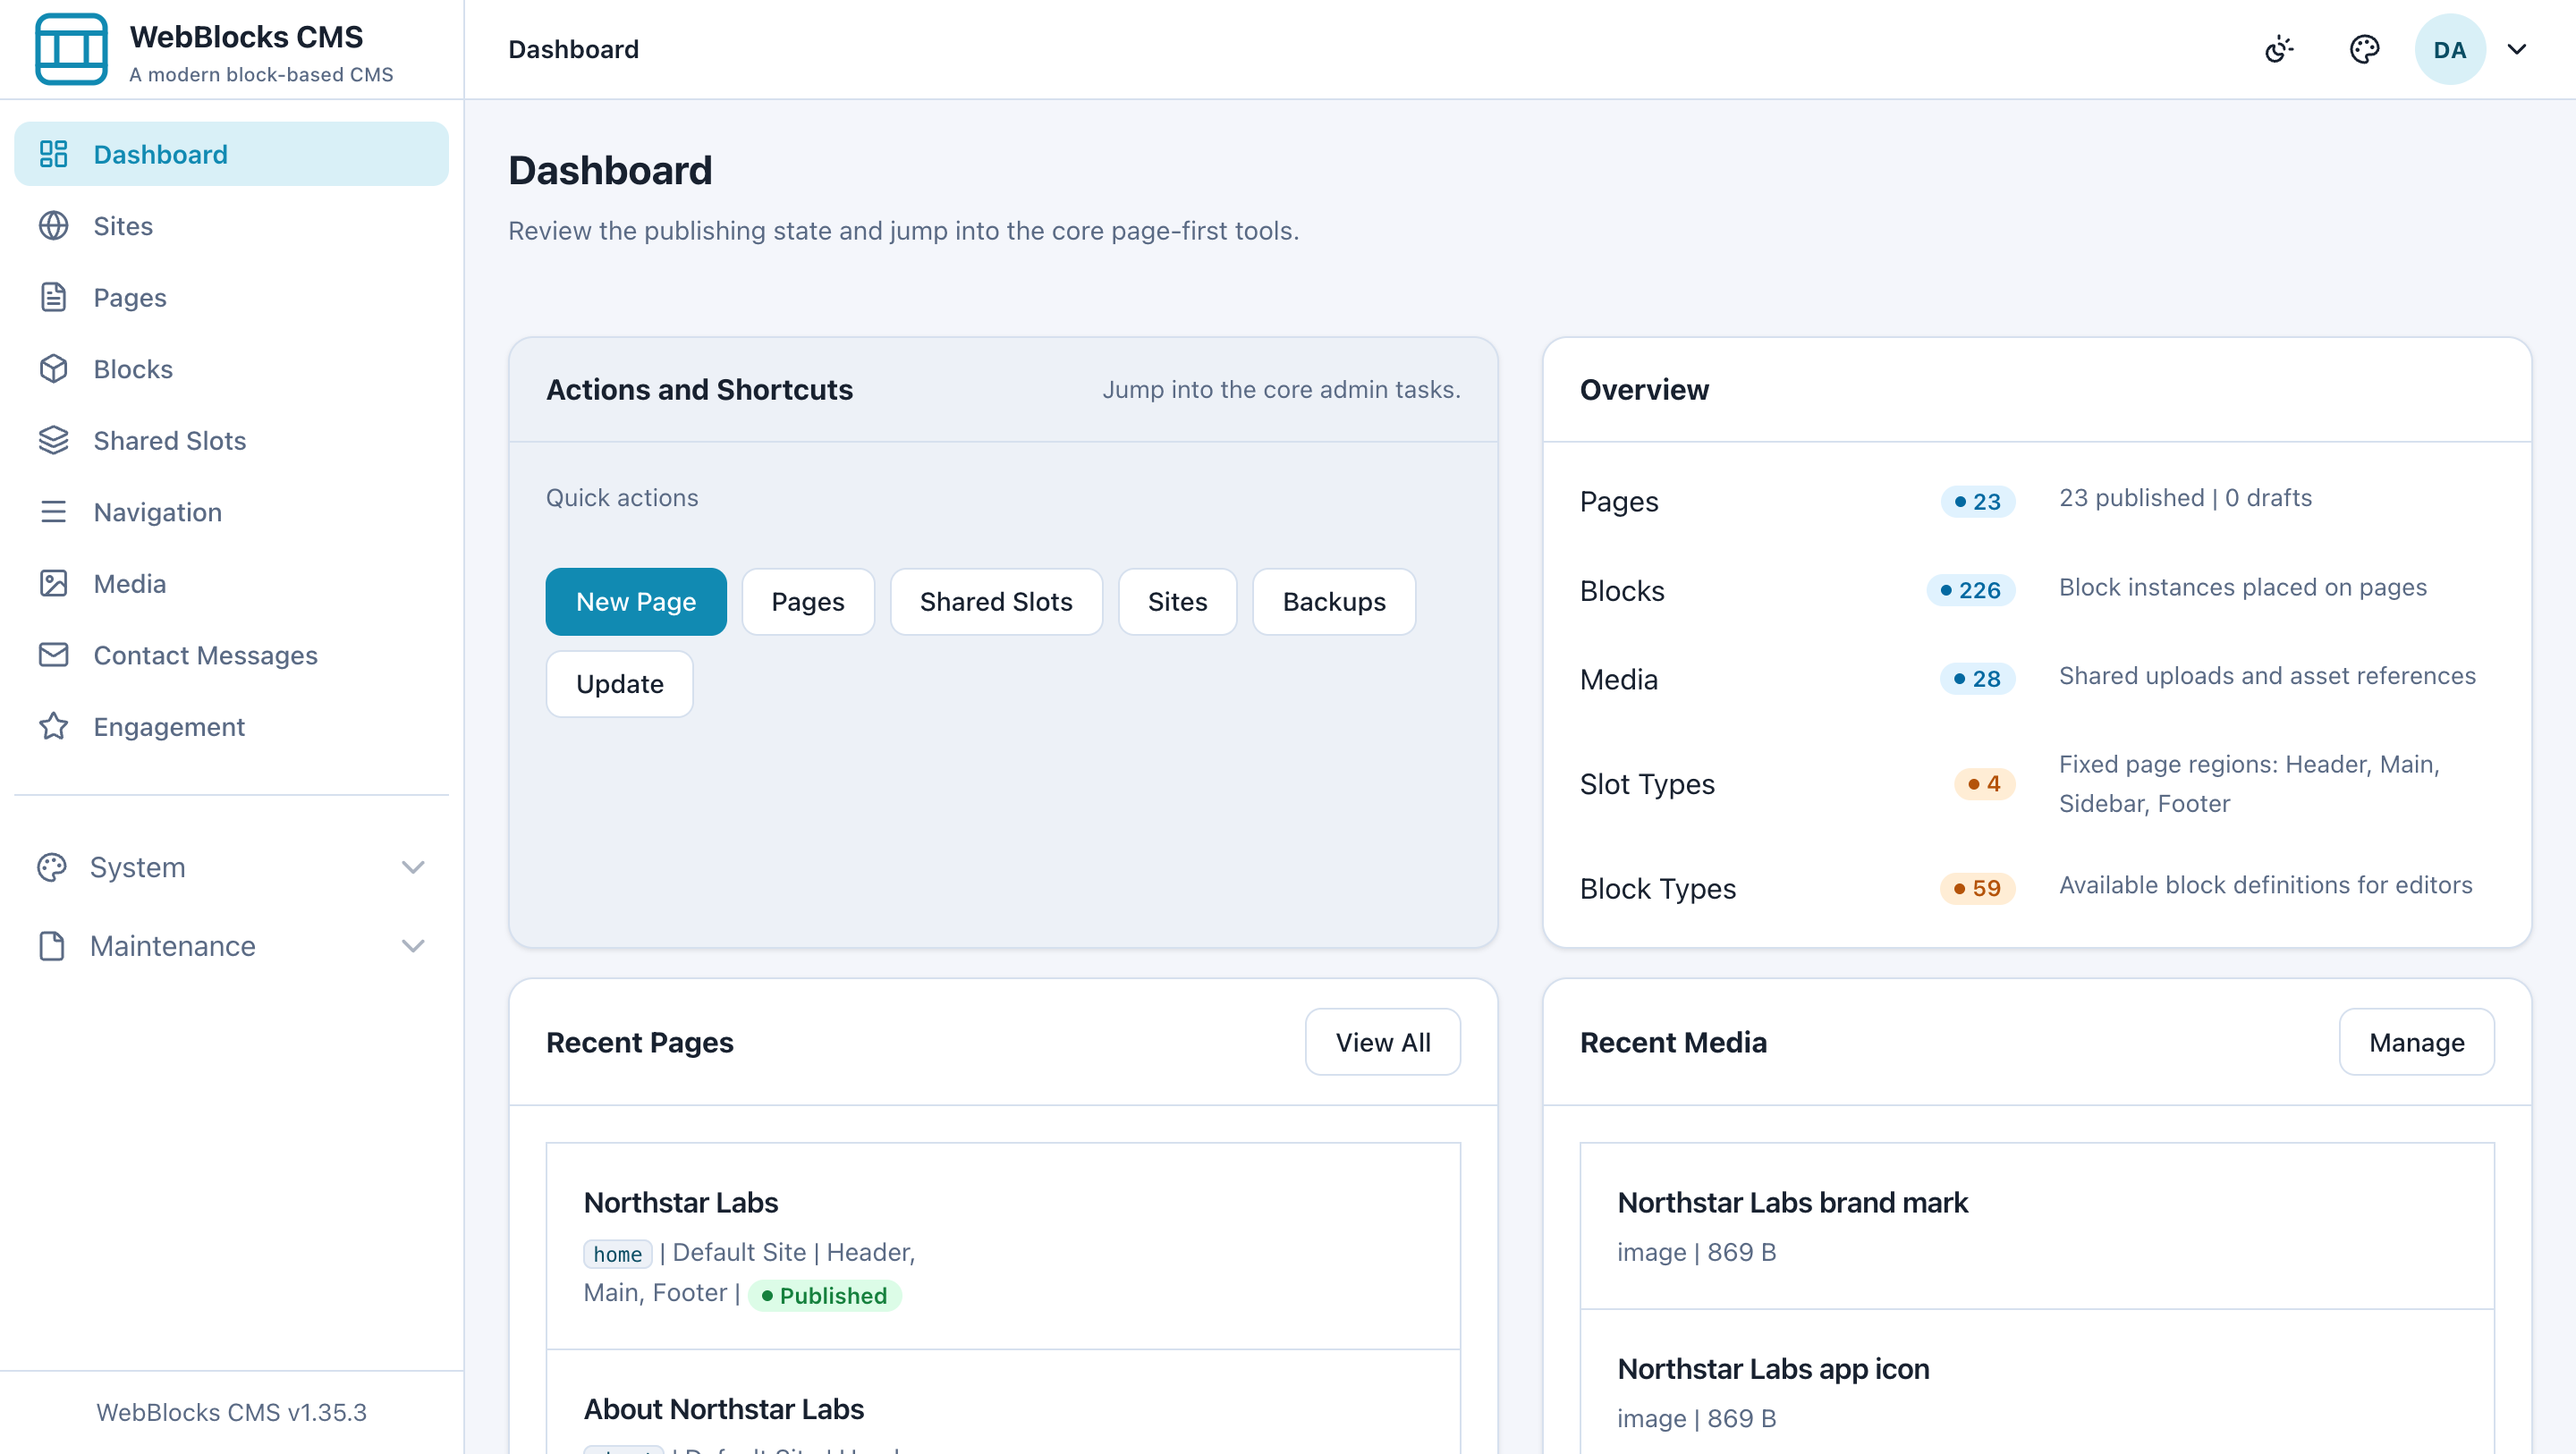
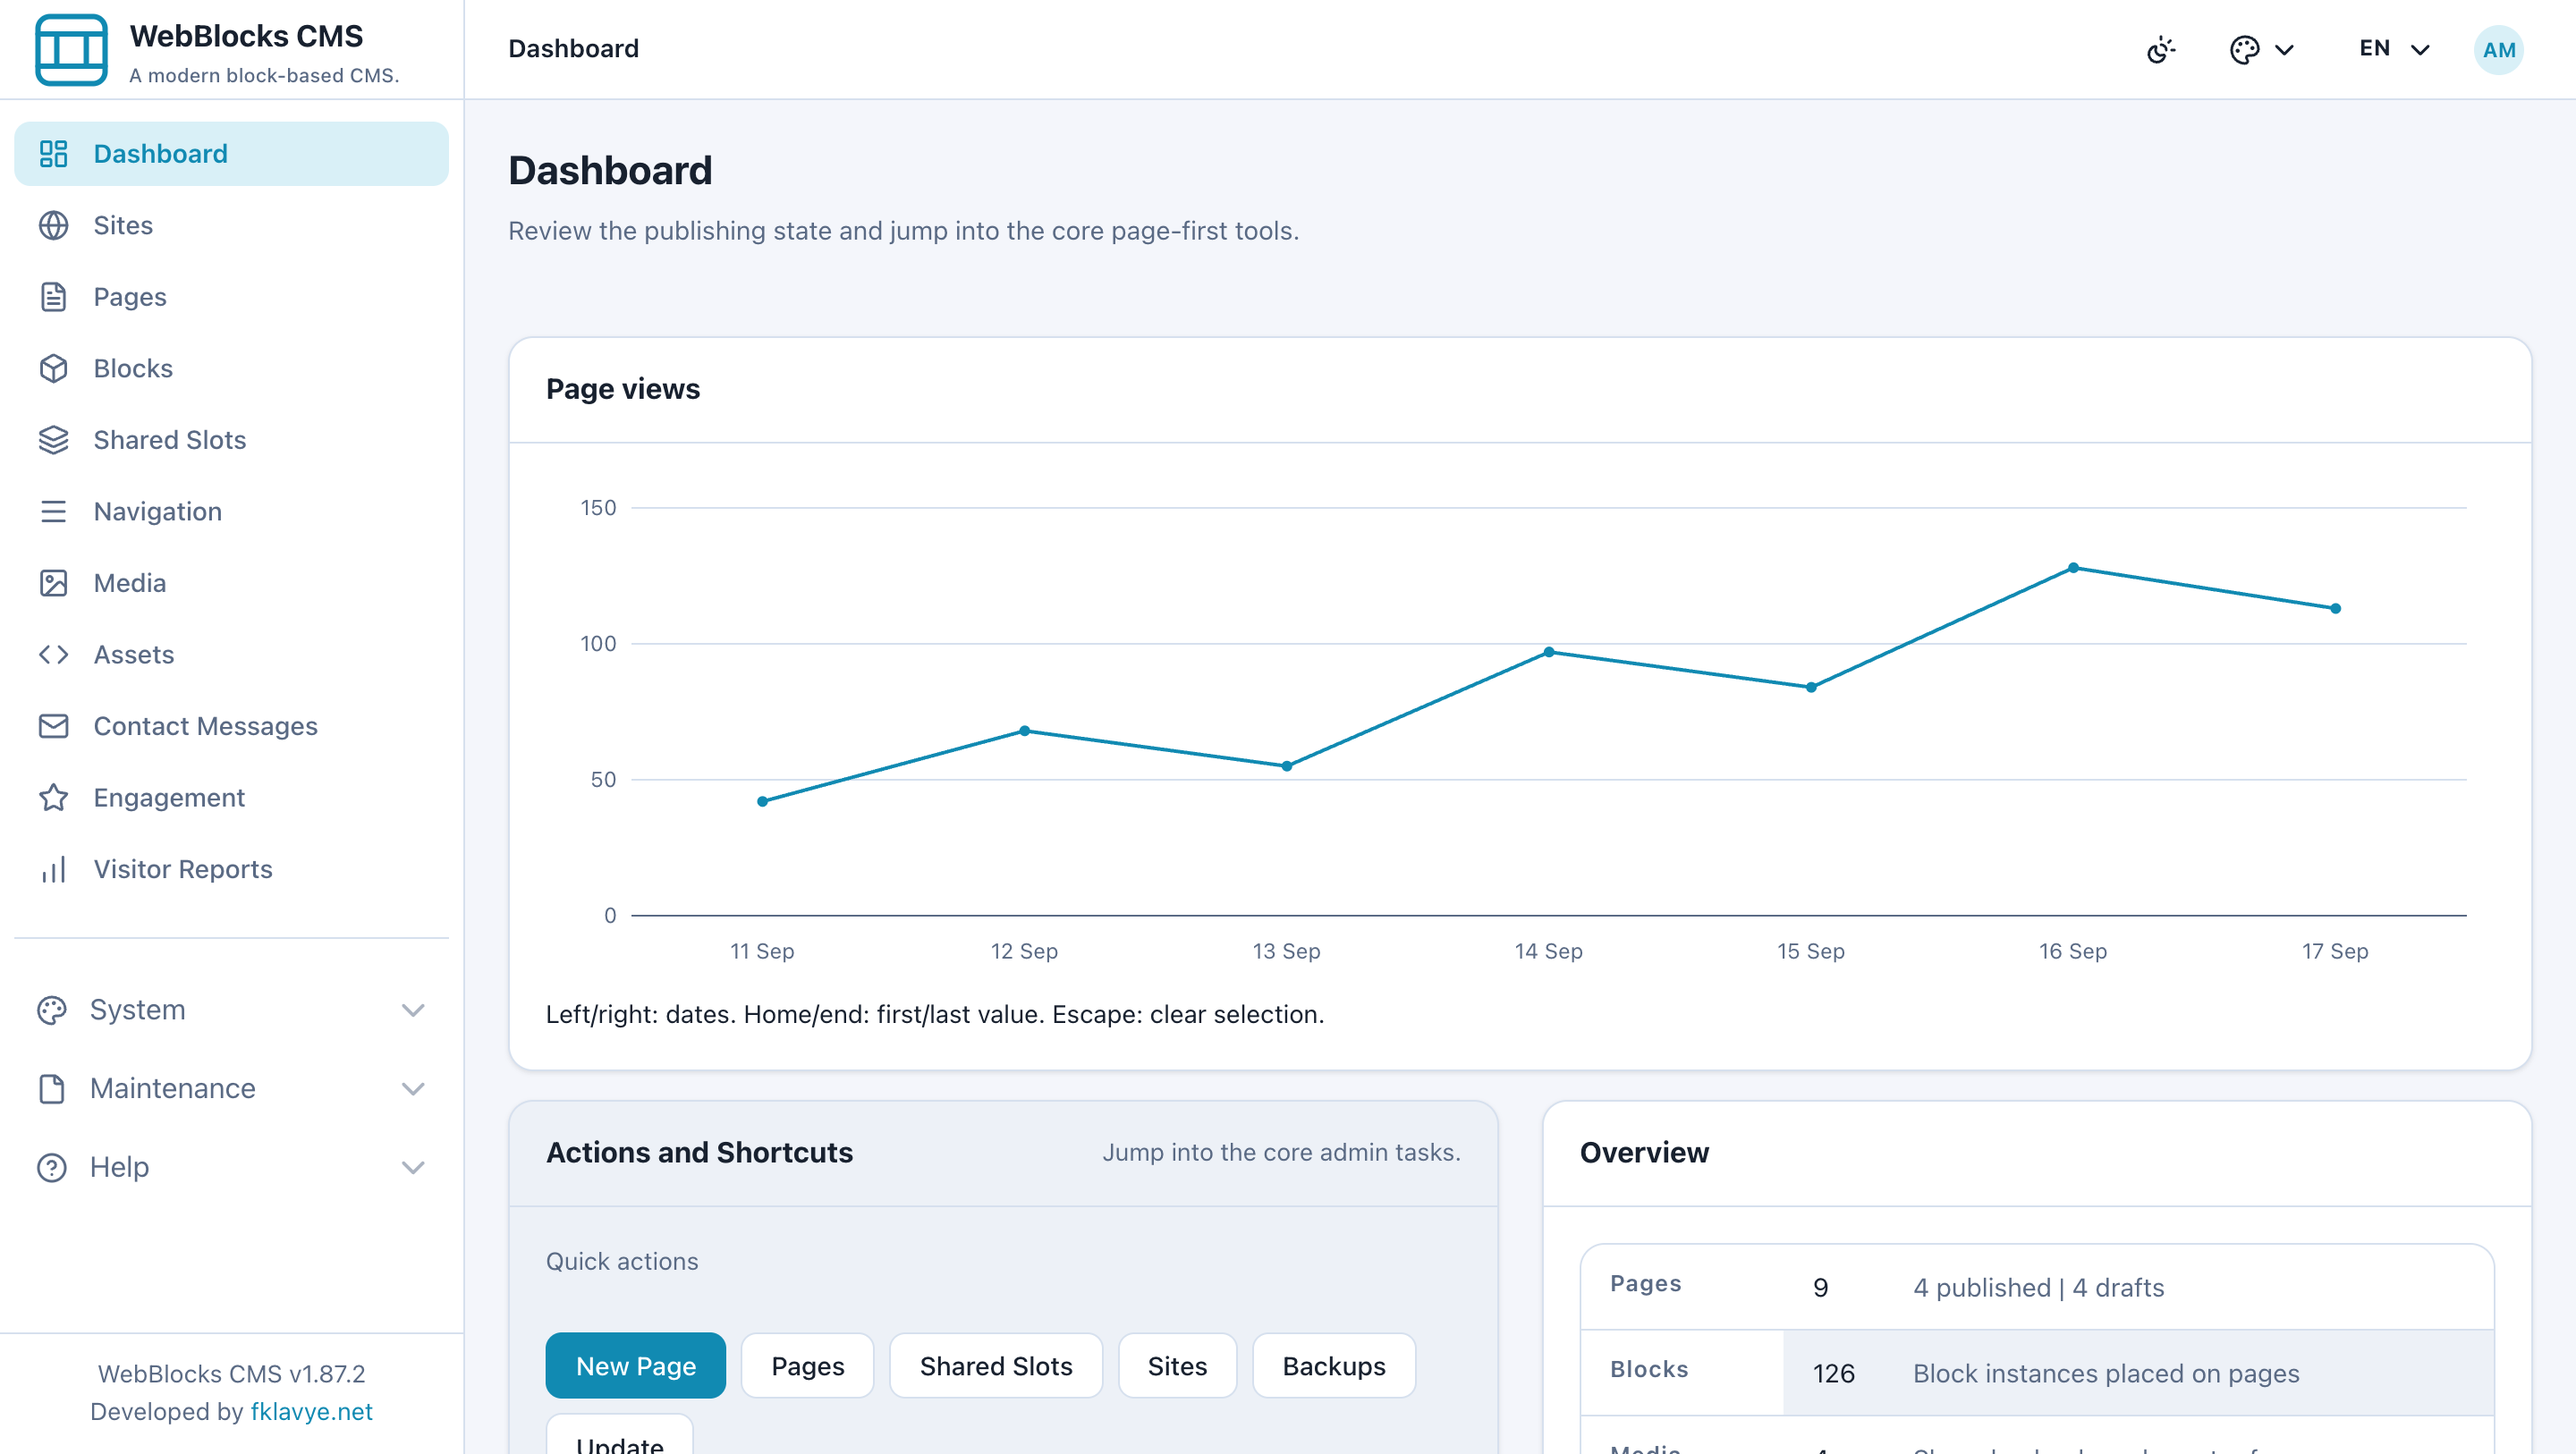
docs(readme): refresh dashboard screenshot

diff --git a/README.md b/README.md
@@ -24,7 +24,7 @@ composer require fklavyenet/webblocks-cms
 
 ![WebBlocks CMS operator dashboard](.github/assets/webblocks-cms-dashboard.png)
 
-_The operator dashboard brings publishing state, common actions, recent pages, and media into one package-owned admin._
+_The operator dashboard brings recent visitor activity, publishing state, common actions, recent pages, and media into one package-owned admin._
 
 ## What WebBlocks CMS provides
 
